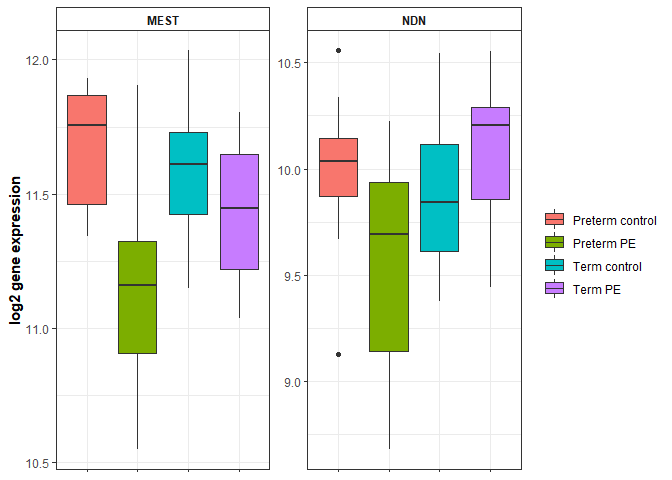
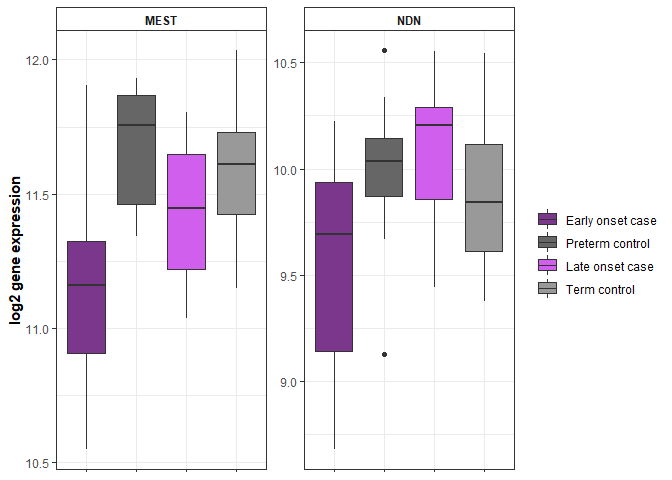
changed color and grouping order of boxplots; changed legend titles

diff --git a/CoLab_nanostring_imprint_limma.md b/CoLab_nanostring_imprint_limma.md
@@ -839,12 +839,16 @@ Boxplots<-Genes%>%
   mutate(ID=rowname)%>%
   left_join(Covariates)%>%
   select(ID,MEST,NDN,Case.status)%>%
+  mutate(Case.status=ifelse(Case.status=="Term PE","Late onset case",
+                            ifelse(Case.status=="Preterm PE","Early onset case",as.character(Case.status))),
+         Case.status=factor(Case.status,levels=c("Early onset case","Preterm control","Late onset case","Term control")))%>%
   gather(Genes,Value,-c(ID,Case.status))
 
 imprint_boxplot<-ggplot(Boxplots,aes(x=Case.status,y=Value,fill=Case.status))+
   geom_boxplot()+
   theme_bw()+
   labs(y="log2 gene expression")+
+  scale_fill_manual(values=c("mediumorchid4","grey40","mediumorchid2","grey60"))+
   theme(axis.text.x=element_blank(),
         axis.title.x=element_blank(),
         axis.title.y=element_text(face="bold"),
@@ -874,10 +878,14 @@ DLX5_boxplot<-Genes%>%
   mutate(ID=rowname)%>%
   left_join(Covariates)%>%
   select(ID,DLX5,Case.status)%>%
+  mutate(Case.status=ifelse(Case.status=="Term PE","Late onset case",
+                            ifelse(Case.status=="Preterm PE","Early onset case",as.character(Case.status))),
+         Case.status=factor(Case.status,levels=c("Early onset case","Preterm control","Late onset case","Term control")))%>%
   ggplot(.,aes(x=Case.status,y=DLX5,fill=Case.status))+
   geom_boxplot()+
   theme_bw()+
   labs(y="log2 gene expression")+
+  scale_fill_manual(values=c("mediumorchid4","grey40","mediumorchid2","grey60"))+
   theme(axis.text.x=element_blank(),
         axis.title.x=element_blank(),
         axis.title.y=element_text(face="bold"),
@@ -909,6 +917,10 @@ Boxplots<-Genes%>%
   mutate(ID=rowname)%>%
   left_join(Covariates_female)%>%
   select(ID,MEST,NDN,Case.status)%>%
+  mutate(Case.status=ifelse(Case.status=="Term PE","Late onset case",
+                            ifelse(Case.status=="Preterm PE","Early onset case",as.character(Case.status))),
+         Case.status=factor(Case.status,levels=c("Early onset case","Preterm control","Late onset case","Term control")))%>%
+  drop_na()%>% 
   gather(Genes,Value,-c(ID,Case.status))
 
 
@@ -916,6 +928,7 @@ female_imprint_boxplot<-ggplot(Boxplots,aes(x=Case.status,y=Value,fill=Case.stat
   geom_boxplot()+
   theme_bw()+
   labs(y="log2 gene expression")+
+  scale_fill_manual(values=c("mediumorchid4","grey40","mediumorchid2","grey60"))+
   theme(axis.text.x=element_blank(),
         axis.title.x=element_blank(),
         axis.title.y=element_text(face="bold"),
@@ -944,11 +957,15 @@ female_DLX5_boxplot<-Genes%>%
   mutate(ID=rowname)%>%
   left_join(Covariates_female)%>%
   select(ID,DLX5,Case.status)%>%
+  mutate(Case.status=ifelse(Case.status=="Term PE","Late onset case",
+                            ifelse(Case.status=="Preterm PE","Early onset case",as.character(Case.status))),
+         Case.status=factor(Case.status,levels=c("Early onset case","Preterm control","Late onset case","Term control")))%>%
   drop_na()%>% #drop males
   ggplot(.,aes(x=Case.status,y=DLX5,fill=Case.status))+
   geom_boxplot()+
   theme_bw()+
   labs(y="log2 gene expression")+
+  scale_fill_manual(values=c("mediumorchid4","grey40","mediumorchid2","grey60"))+
   theme(axis.text.x=element_blank(),
         axis.title.x=element_blank(),
         axis.title.y=element_text(face="bold"),
@@ -981,6 +998,10 @@ Boxplots<-Genes%>%
   mutate(ID=rowname)%>%
   left_join(Covariates_male)%>%
   select(ID,MEST,NDN,Case.status)%>%
+  mutate(Case.status=ifelse(Case.status=="Term PE","Late onset case",
+                            ifelse(Case.status=="Preterm PE","Early onset case",as.character(Case.status))),
+         Case.status=factor(Case.status,levels=c("Early onset case","Preterm control","Late onset case","Term control")))%>%
+  drop_na()%>%
   gather(Genes,Value,-c(ID,Case.status))
 
 
@@ -988,6 +1009,7 @@ male_imprint_boxplot<-ggplot(Boxplots,aes(x=Case.status,y=Value,fill=Case.status
   geom_boxplot()+
   theme_bw()+
   labs(y="log2 gene expression")+
+  scale_fill_manual(values=c("mediumorchid4","grey40","mediumorchid2","grey60"))+
   theme(axis.text.x=element_blank(),
         axis.title.x=element_blank(),
         axis.title.y=element_text(face="bold"),
@@ -1021,6 +1043,7 @@ male_DLX5_boxplot<-Genes%>%
   geom_boxplot()+
   theme_bw()+
   labs(y="log2 gene expression")+
+  scale_fill_manual(values=c("grey40","mediumorchid4","grey60","mediumorchid2"))+
   theme(axis.text.x=element_blank(),
         axis.title.x=element_blank(),
         axis.title.y=element_text(face="bold"),
